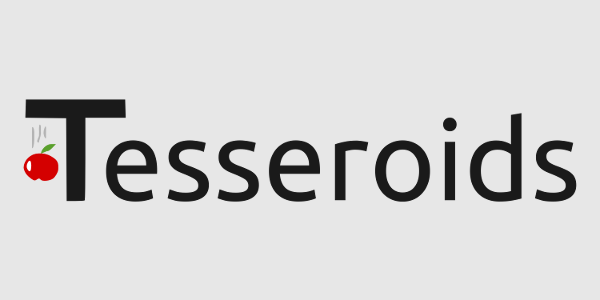
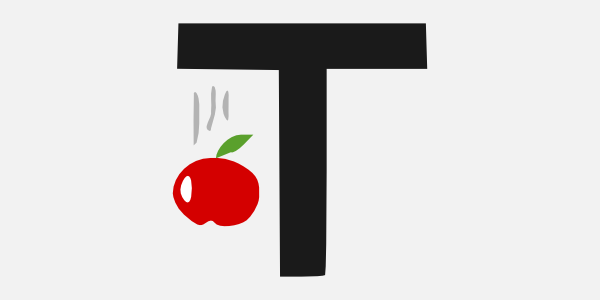
No text on software thumbnails (#111)
Also rename "Software projects" to just "Software"

Changed region(s): [[0.03, 0.06, 0.96, 0.93]]

diff --git a/software/index.md b/software/index.md
@@ -1,5 +1,5 @@
 ---
-title: Software projects
+title: Software
 layout: index
 content:
     - fatiando
